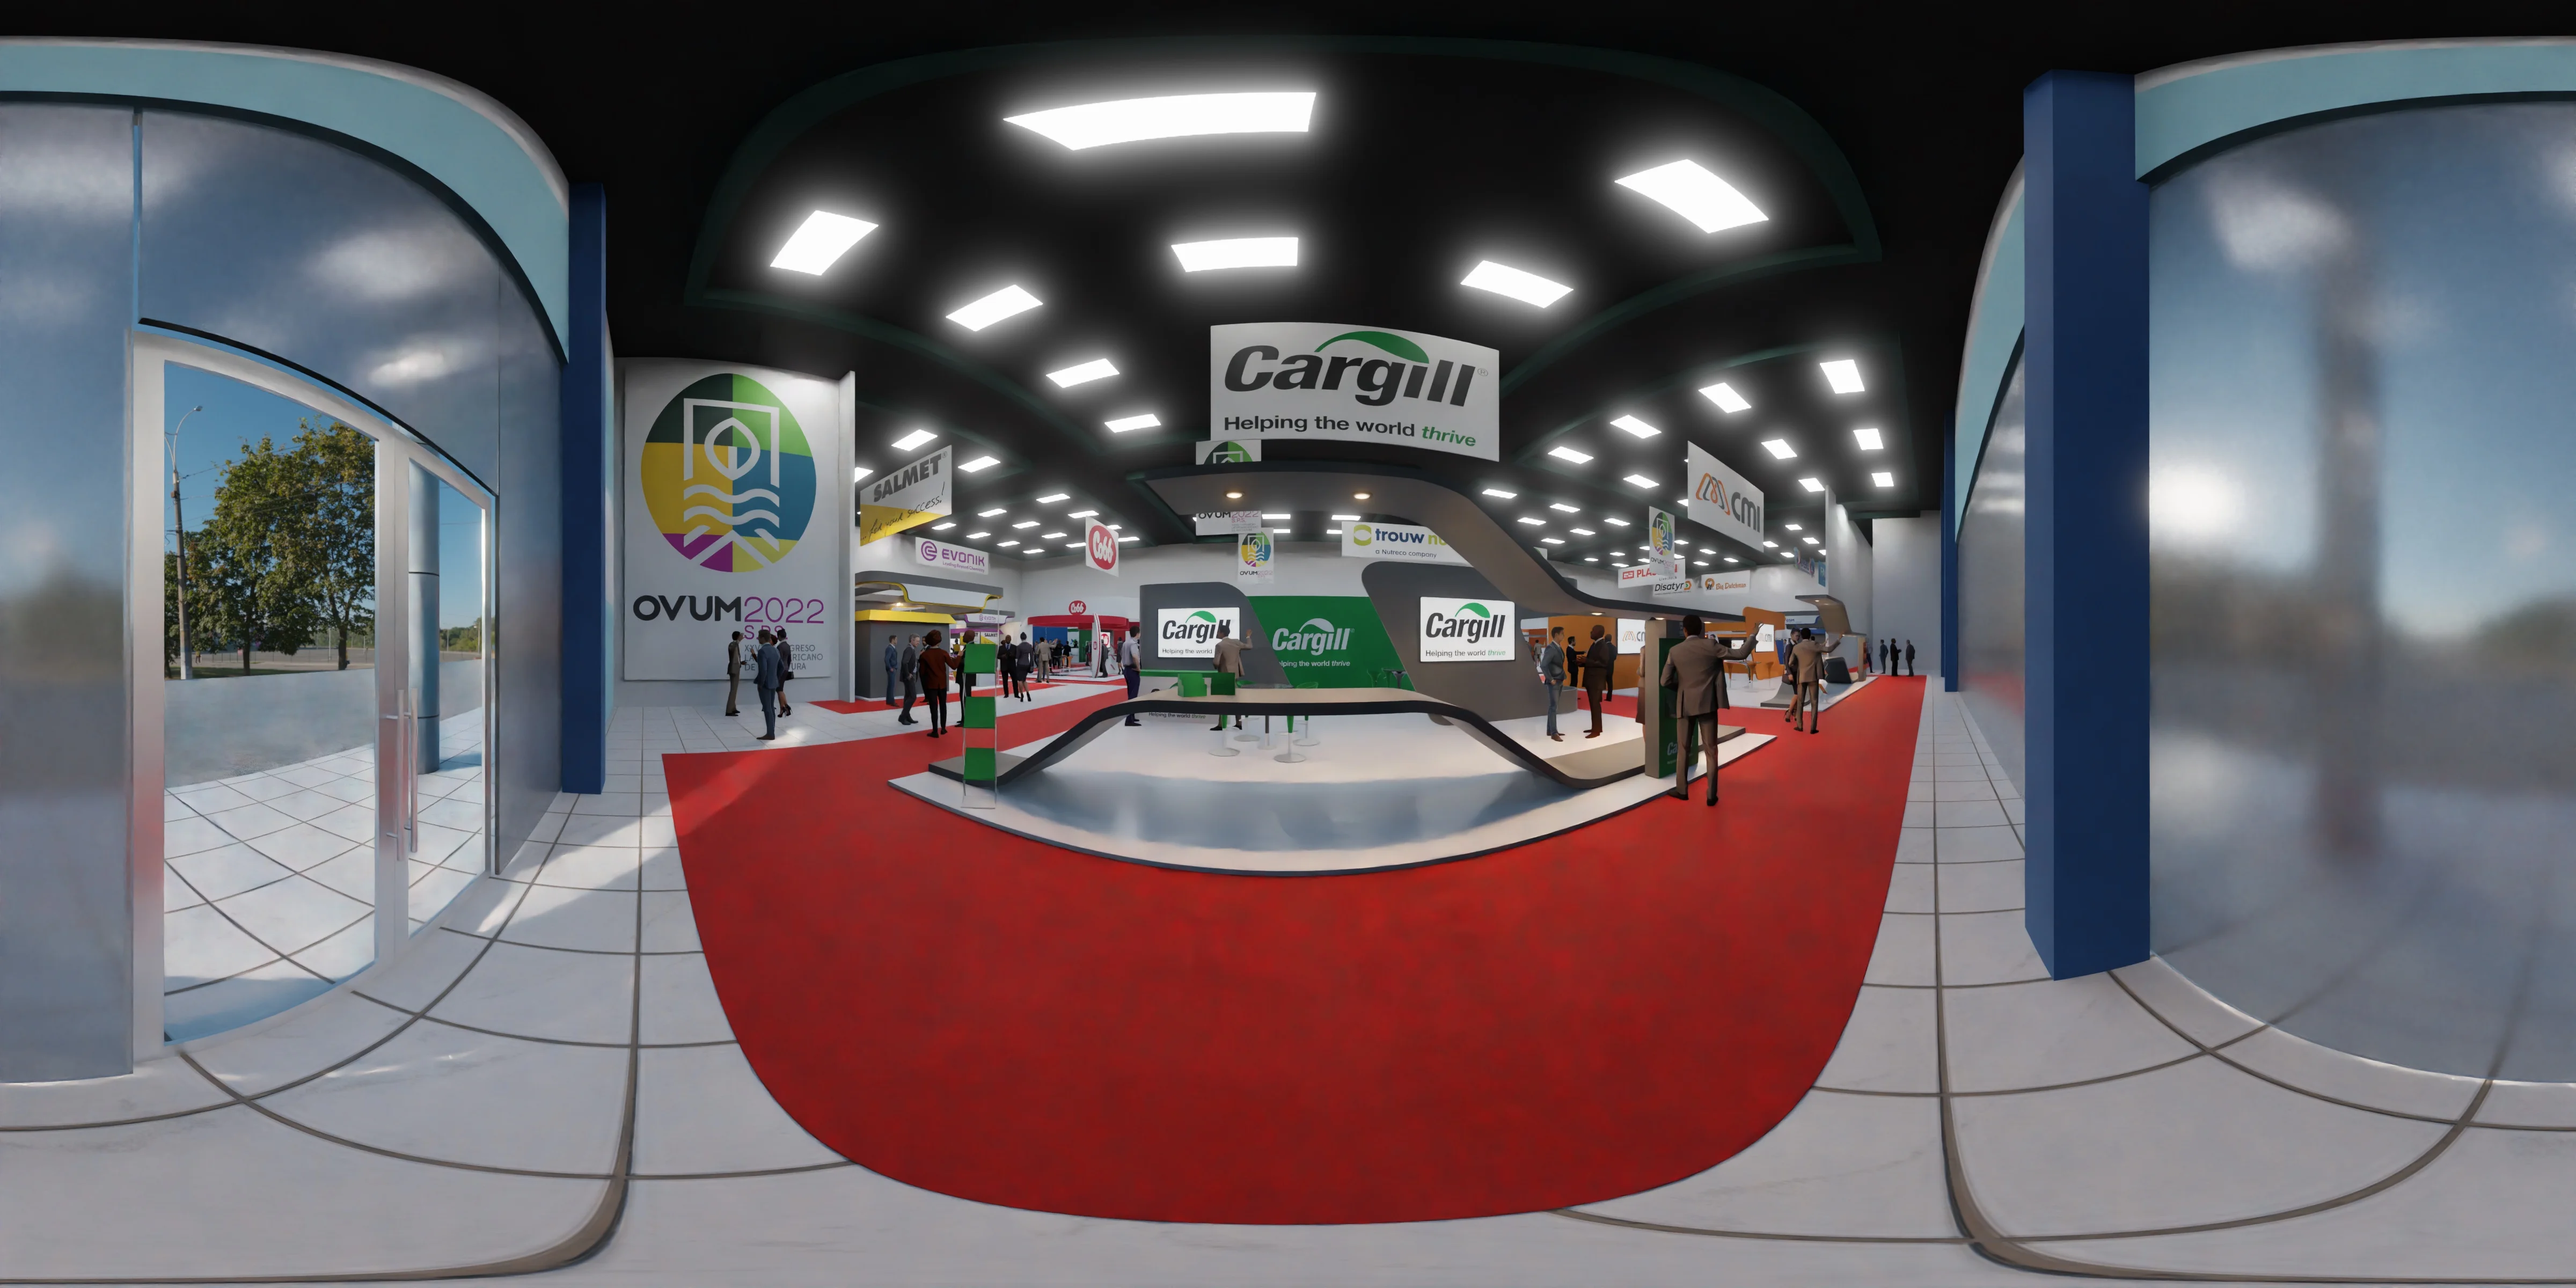
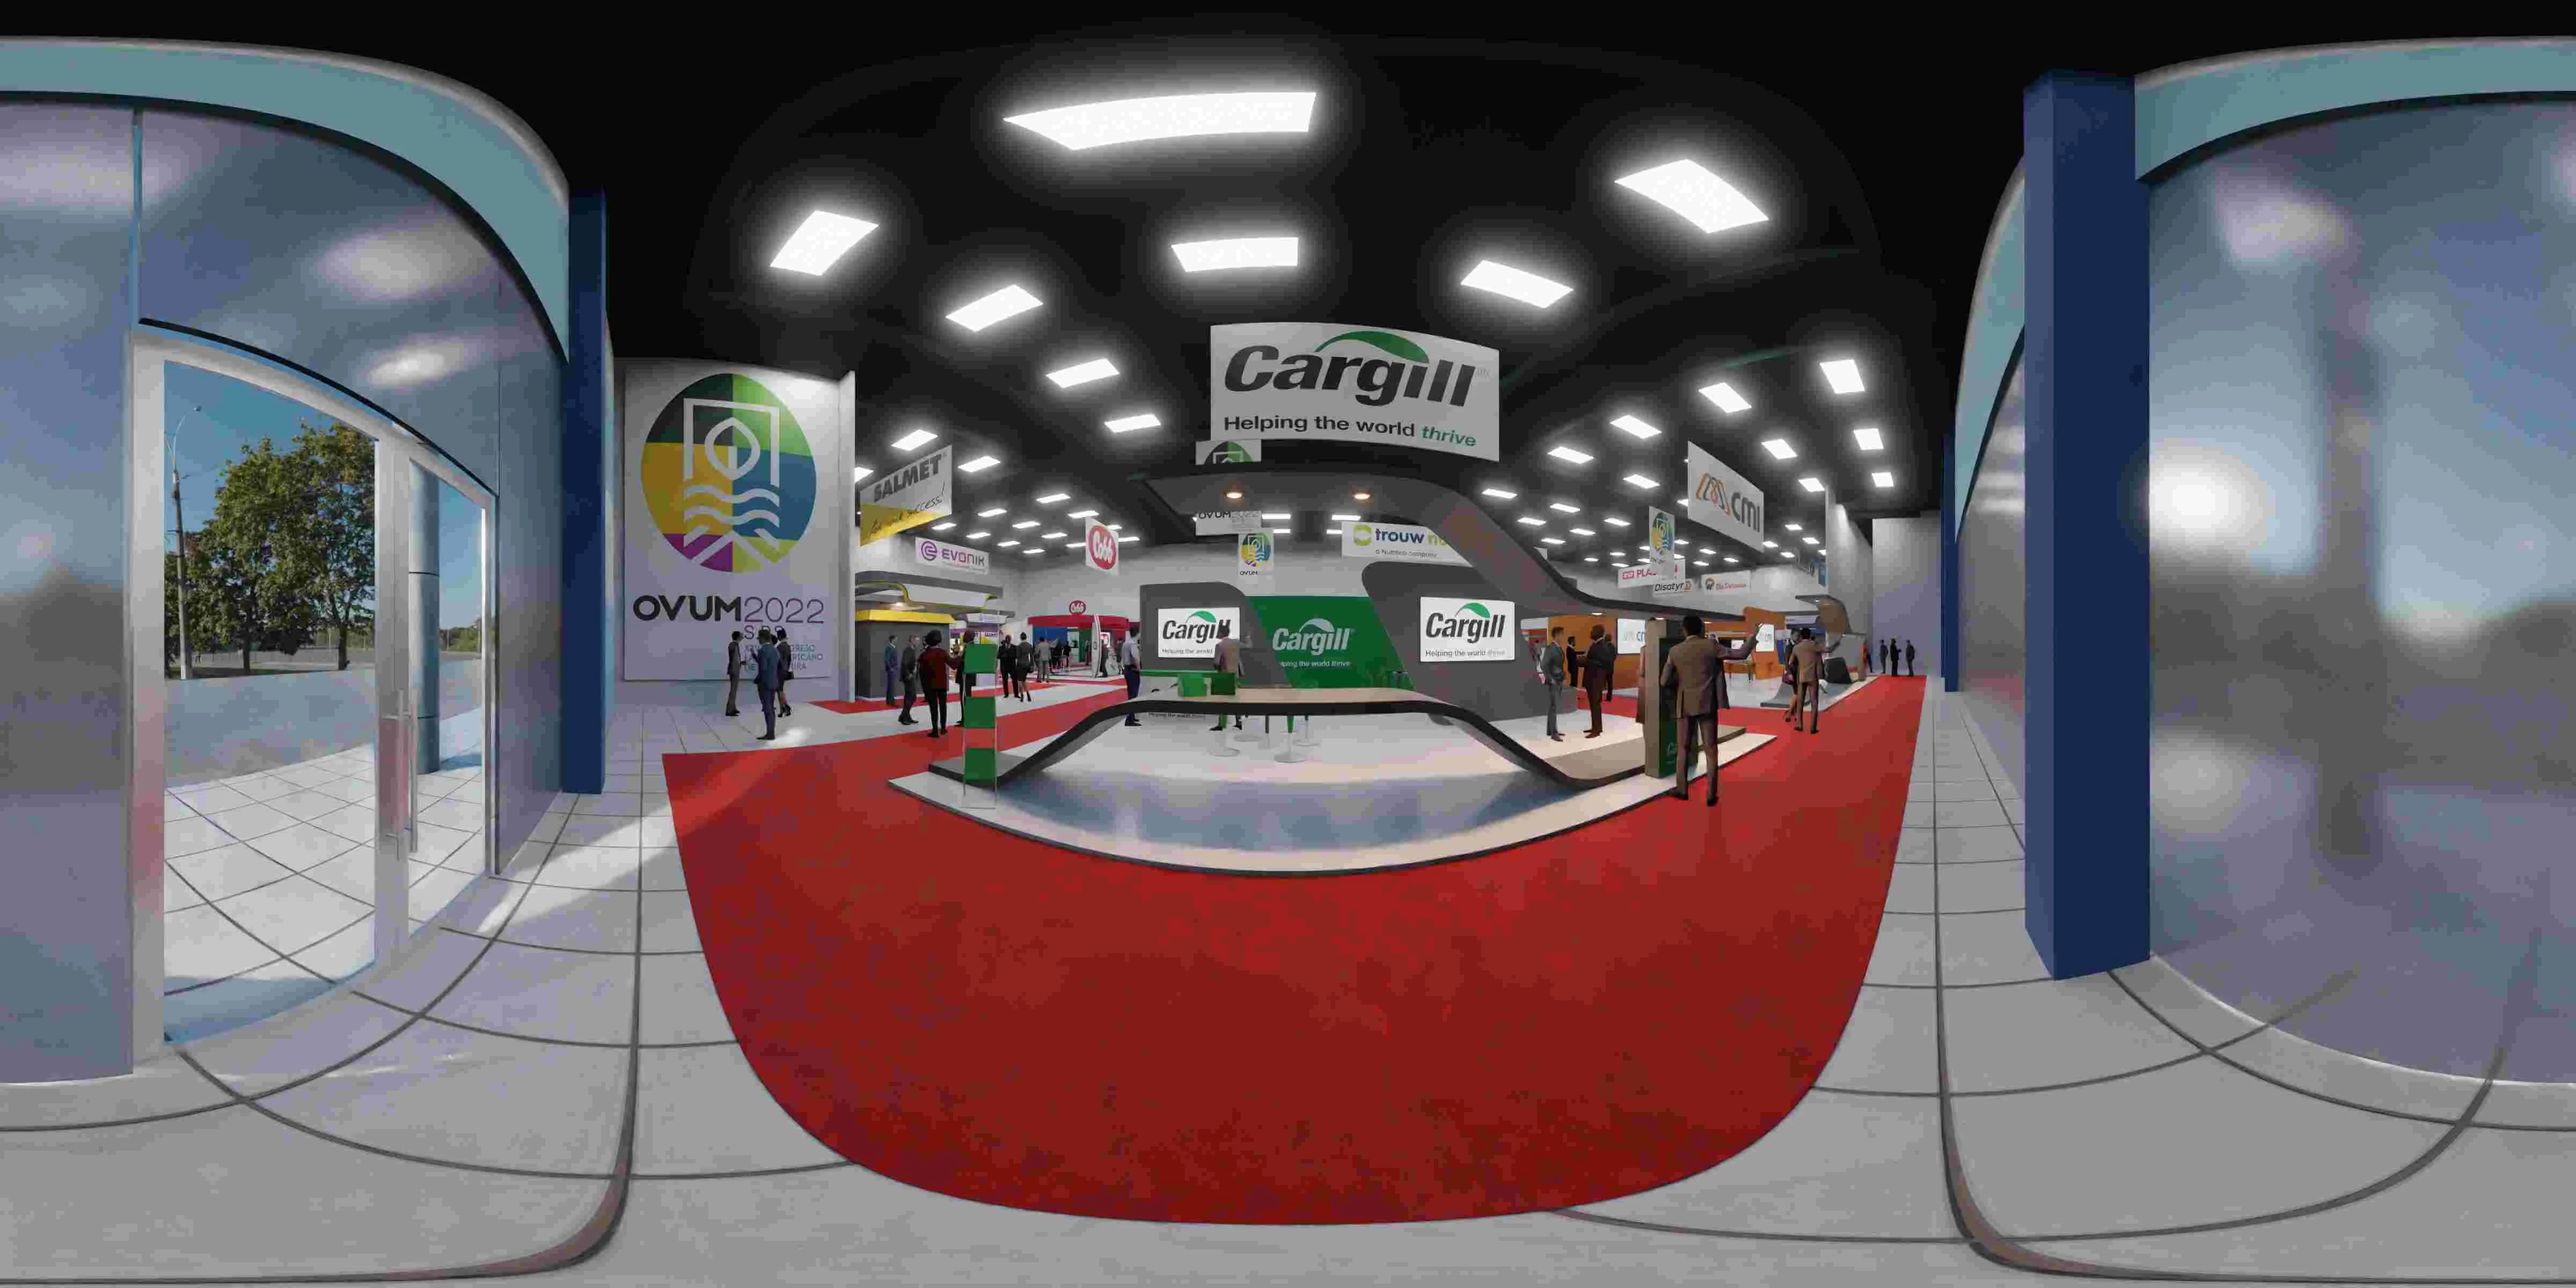
prueba de optimizacion v38

diff --git a/src/pages/exposicion/patrocinador/[slug].jsx b/src/pages/exposicion/patrocinador/[slug].jsx
@@ -228,11 +228,11 @@ const Patrocinador = (props) => {
             ></a-image>
             <a-sky
               // onLoad={console.log('cargue')}
-              cargo
-              // src={`/image/360/patrocinador/${data}.webp`}
+              // cargo
+              src={`/image/360/patrocinador/${data}.webp`}
               // src={`https://images.unsplash.com/photo-1596263576925-d90d63691097?ixlib=rb-1.2.1&ixid=MnwxMjA3fDB8MHxwaG90by1wYWdlfHx8fGVufDB8fHx8&auto=format&fit=crop&w=${resolucion}&q=80`}
               // src="#sky"
-              color="#00ff00"
+              // color="#00ff00"
               rotation="0 -90 0"
               position={sky}
               data-src="https://images.unsplash.com/photo-1596263576925-d90d63691097?ixlib=rb-1.2.1&ixid=MnwxMjA3fDB8MHxwaG90by1wYWdlfHx8fGVufDB8fHx8&auto=format&fit=crop&w=800&q=80"
